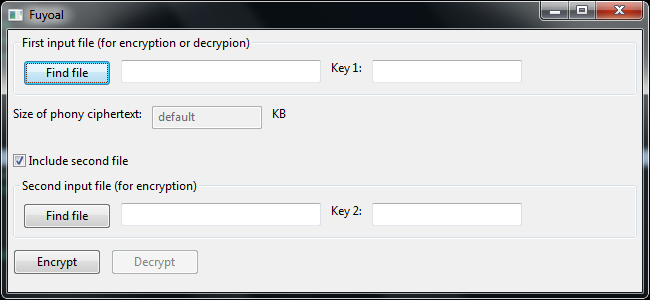
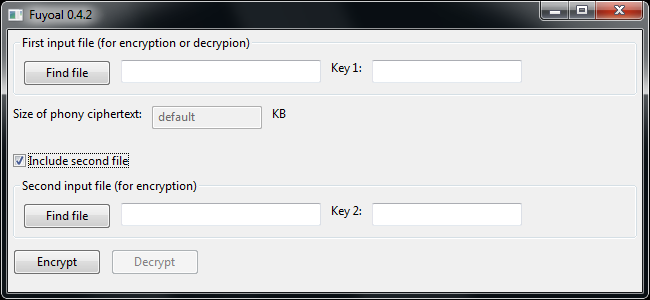
v 0.5 Zmiana generowaia losowego hasla. Hashowanie hasel (obr. przed bruteforce).

diff --git a/web/index.html b/web/index.html
@@ -158,9 +158,7 @@
     
     <h2><a name="download">Download</a></h2>
 
-    <p>Current version is 0.4.2 (beta), released 2017-10-29.</p>
-    
-    <p><strong>Note:</strong> Current version is not compatible with version 0.3.3 and older. Please find source code of version 0.3.3 below for transition purposes.</p>
+    <p>Current version is 0.5 (beta), released 2017-10-31.</p>
     
     <table border="1" cellpadding="10" cellspacing="0" style="border-collapse:collapse;">
       <tr>
@@ -168,31 +166,23 @@
 	<th>Size</th>
 	<th>SHA256</th>
       </tr>
-      <tr>
-	<th colspan="3">Version 0.4.2</th>
-      </tr>
+      <!-- <tr> -->
+      <!-- 	<th colspan="3">Version 0.5</th> -->
+      <!-- </tr> -->
       <tr>
         <td><a href="download/fuyoal_source.tar.gz">Source</a></td>
-	<td>4.15 KB</td>
-	<td>4aac1752d8aa7a1a9f427f49eddc7a27fb062109ee841237e92fdd21399ee5f2</td>
+	<td>4.19 KB</td>
+	<td>a30073f4afffce47314d9f97bdd184fc72ebf073172f77fd26e15f143dee4759</td>
       </tr>
       <tr>
         <td><a href="download/fuyoal.exe">Windows binaries (CLI)</a></td>
 	<td>3.25 MB</td>
-	<td>97797ec4a636a4cb5b1bac299f8d053b5b084e6e119051bc0d3d93b5356c9e39</td>
+	<td>952ba5353690d89d03ee2a5c655a38ad94d05ee71fec3750a42b428111b6942c</td>
       </tr>
       <tr>
         <td><a href="download/guifuyoal.exe">Windows binaries (GUI)</a></td>
-	<td>8 MB</td>
-	<td>4ec9467455bacd45fb884f43455eb3f148b049b60de2e5acbda6204427e242fb</td>
-      </tr>
-      <tr>
-	<th colspan="3">Version 0.3.3</th>
-      </tr>
-      <tr>
-        <td><a href="download/fuyoal_source3.tar.gz">Source</a></td>
-	<td>3.95 KB</td>
-	<td>df95b29ba1c9ded8e526c47c0b29633dcb6578b20ce16007af3600a6</td>
+	<td>7.99 MB</td>
+	<td>d6ad7fec67cfce46777217daa5f9d0c835576698970b52a667d3dfb2819c8dc9</td>
       </tr>
     </table>
     

diff --git a/core.py b/core.py
@@ -1,17 +1,17 @@
-import binascii
-import hashlib
 import os
+import random as regran
 import shutil
 import struct
 import sys
 from Crypto import Random
 from Crypto.Cipher import AES
-from random import gauss
+from Crypto.Hash import SHA256
 
 
 class edcr():
     def __init__(self):
         pass
+
 
     def encrypt_file1(self,filein,key,sizealt,output):
         if(not os.path.isfile(filein)):
@@ -29,7 +29,7 @@ class edcr():
         with open(phonyfile, 'wb') as outfile:
             outfile.seek(phonyfsize-1)
             outfile.write("\0")
-        ret = self.encrypt_file2(filein,key,phonyfile,binascii.b2a_base64(Random.get_random_bytes(32))[:32],output)
+        ret = self.encrypt_file2(filein,key,phonyfile,Random.get_random_bytes(32),output)
         os.remove(phonyfile)
         if(os.path.isfile(phonyfile)):
             return(-1)
@@ -93,9 +93,10 @@ class edcr():
 
 
     def randomsize(self,size,par1,par2):
-        ret = gauss(size,par1)
+        regran.seed(os.urandom(64))
+        ret = regran.gauss(size,par1)
         while(abs(ret-size) > par2):
-            ret = gauss(size,par1)
+            ret = regran.gauss(size,par1)
         return(int(round(ret)))
 
 
@@ -107,8 +108,8 @@ class edcr():
         return(s[0:-ord(s[-1])])
 
 
-    def encrypt(self,filein, fileout, key, bs):
-        key = hashlib.sha256(key.encode()).digest()
+    def encrypt(self,filein, fileout, keya, bs):
+        key = self.hash_key(keya,1000000)
         iv = Random.new().read(AES.block_size)
         cipher = AES.new(key, AES.MODE_CBC, iv)
         filesize = os.path.getsize(filein)
@@ -134,7 +135,7 @@ class edcr():
 
 
     def decrypt(self,filein, fileout, keya, bs):
-        key = hashlib.sha256(keya.encode()).digest()
+        key = self.hash_key(keya,1000000)
         with open(filein, 'rb') as infile:
             try:
                 f1size_s = infile.read(8)
@@ -167,3 +168,10 @@ class edcr():
                     else:
                         outfile.write(cipher.decrypt(chunk))
                         chunk = nextchunk
+
+
+    def hash_key(self,key,rep):
+        h = SHA256.new()
+        for i in xrange(rep):
+            h.update(key)
+        return(h.digest())

diff --git a/fuyoal.py b/fuyoal.py
@@ -6,7 +6,7 @@ import gettext
 class VersionedHelp(argparse.HelpFormatter):
     def _format_usage(self, usage, actions, groups, prefix=None):
         if prefix is None:
-            prefix = gettext.gettext("fuyoal 0.4.2. Deniale encryption software. http://tsmolen.eu/fuyoal\n\nusage:")
+            prefix = gettext.gettext("fuyoal 0.5. Deniale encryption software. http://tsmolen.eu/fuyoal\n\nusage:")
         return argparse.HelpFormatter._format_usage(self, usage, actions, groups, prefix)
 
 class program():

diff --git a/guifuyoal.py b/guifuyoal.py
@@ -3,7 +3,7 @@ from core import *
 
 class Frame(wx.Frame):
     def __init__(self):
-        wx.Frame.__init__(self, None, title="Fuyoal 0.4.2", size=wx.Size(650,300))
+        wx.Frame.__init__(self, None, title="Fuyoal 0.5", size=wx.Size(650,300))
         self.edc = edcr()
 
         self.SetSizeHintsSz(wx.DefaultSize, wx.DefaultSize)
